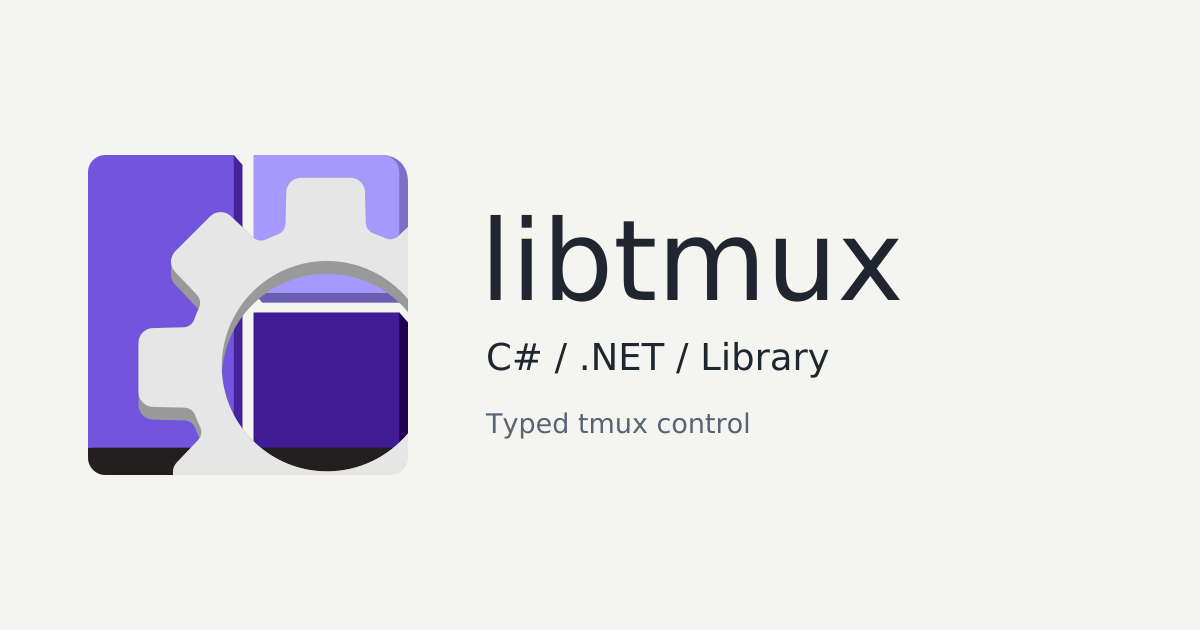
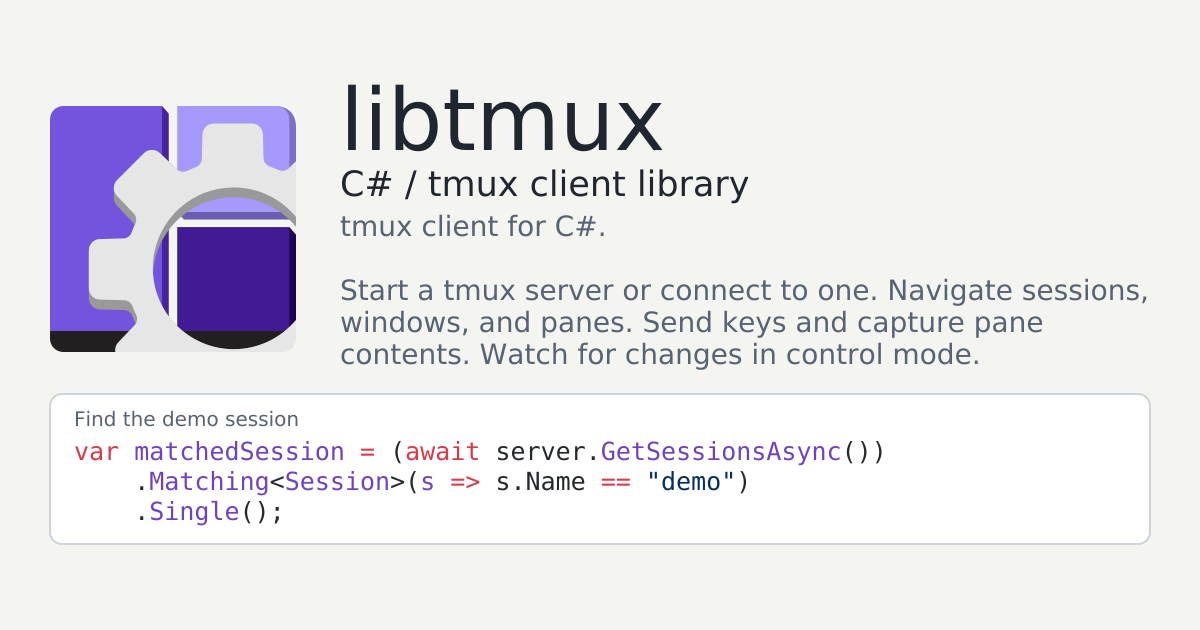
Docs(brand): Show a query on the sharing card
why: Sharing a library link should show how to query tmux in that
language.

what:
- Copy the reviewed sharing artwork and record its source revision

Changed region(s): [[0.0308, 0.1206, 0.9558, 0.8746]]

diff --git a/assets/README.md b/assets/README.md
@@ -12,3 +12,6 @@ symbol comes from the [upstream logo](https://github.com/modelcontextprotocol/mo
 Package-specific artwork sits beside its README where the package format
 supports it. `.github/social-preview.png` is the cog sharing card, ready to
 upload under the repository's **Settings → Social preview**.
+
+The sharing card comes from `assets/csharp/library/opengraph-light.png`
+at kit revision `c9688d9db25e4c522ff1255d0f3badaf27d780dd`.
